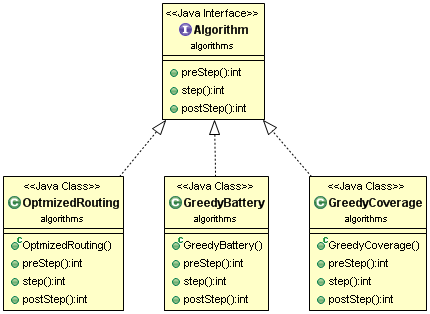
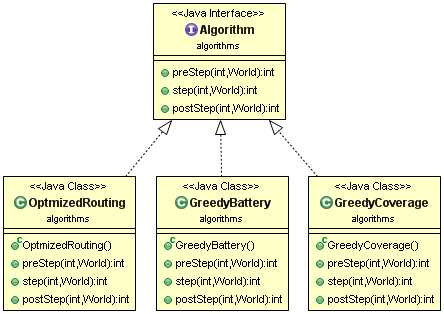
Added required algorithm parameters

diff --git a/ehud/src/algorithms/Algorithm.java b/ehud/src/algorithms/Algorithm.java
@@ -3,6 +3,8 @@
  */
 package algorithms;
 
+import ehud.World;
+
 /**
  * @author Administrator
  *
@@ -11,18 +13,24 @@ public interface Algorithm {
 	
 	/**
 	 * Algorithmic actions to perform before stepping through the simulation
+	 * @param frameNumber TODO
+	 * @param world TODO
 	 * @return int
 	 */
-	public int preStep();
+	public int preStep(int frameNumber, World world);
 	/**
 	 * Algorithmic actions to perform 
+	 * @param frameNumber what step of the simulation are we on
+	 * @param world a reference to the wrold object
 	 * @return int
 	 */
-	public int step();
+	public int step(int frameNumber, World world);
 	/**
 	 * Algorithmic actions to perform after stepping through the simulation
+	 * @param frameNumber TODO
+	 * @param world TODO
 	 * @return int
 	 */
-	public int postStep();
+	public int postStep(int frameNumber, World world);
 
 }

diff --git a/ehud/src/algorithms/OptmizedRouting.java b/ehud/src/algorithms/OptmizedRouting.java
@@ -1,5 +1,7 @@
 package algorithms;
 
+import ehud.World;
+
 /**
  * Focus of this algorithm is to create a network to route packets in the most efficient manner
  * @author Administrator
@@ -8,19 +10,19 @@ package algorithms;
 public class OptmizedRouting implements Algorithm {
 
 	@Override
-	public int preStep() {
+	public int preStep(int frameNumber, World world) {
 		// TODO Auto-generated method stub
 		return 0;
 	}
 
 	@Override
-	public int step() {
+	public int step(int frameNumber, World world) {
 		// TODO Auto-generated method stub
 		return 0;
 	}
 
 	@Override
-	public int postStep() {
+	public int postStep(int frameNumber, World world) {
 		// TODO Auto-generated method stub
 		return 0;
 	}

diff --git a/ehud/src/algorithms/GreedyCoverage.java b/ehud/src/algorithms/GreedyCoverage.java
@@ -1,5 +1,7 @@
 package algorithms;
 
+import ehud.World;
+
 /**
  * Purpose of this algorithm is to maximize the coverage area without regard to battery usage
  * @author Emerald Dsouza
@@ -8,19 +10,19 @@ package algorithms;
 public class GreedyCoverage implements Algorithm {
 
 	@Override
-	public int preStep() {
+	public int preStep(int frameNumber, World world) {
 		// TODO Auto-generated method stub
 		return 0;
 	}
 
 	@Override
-	public int step() {
+	public int step(int frameNumber, World world) {
 		// TODO Auto-generated method stub
 		return 0;
 	}
 
 	@Override
-	public int postStep() {
+	public int postStep(int frameNumber, World world) {
 		// TODO Auto-generated method stub
 		return 0;
 	}

diff --git a/ehud/src/algorithms/GreedyBattery.java b/ehud/src/algorithms/GreedyBattery.java
@@ -1,5 +1,7 @@
 package algorithms;
 
+import ehud.World;
+
 /**
  * Purpose of this class if to maximize the battery usage
  * @author Emerald Dsouza
@@ -8,19 +10,19 @@ package algorithms;
 public class GreedyBattery implements Algorithm {
 
 	@Override
-	public int preStep() {
+	public int preStep(int frameNumber, World world) {
 		// TODO Auto-generated method stub
 		return 0;
 	}
 
 	@Override
-	public int step() {
+	public int step(int frameNumber, World world) {
 		// TODO Auto-generated method stub
 		return 0;
 	}
 
 	@Override
-	public int postStep() {
+	public int postStep(int frameNumber, World world) {
 		// TODO Auto-generated method stub
 		return 0;
 	}
